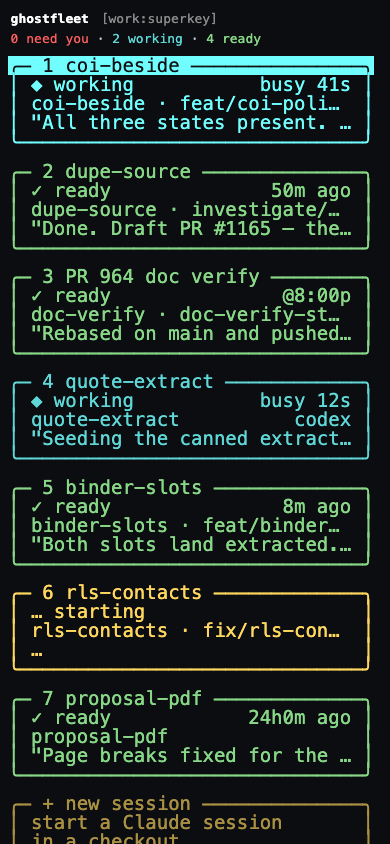
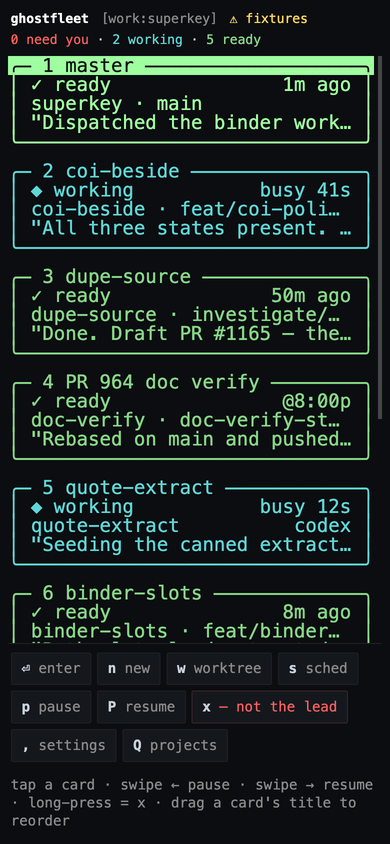
Re-shoot the phone client, because two of its screenshots document an app that no longer exists
web/README.md's stills were taken in #40 and never re-taken, so the two screens that have
changed since are both wrong in the same silent way — they still render, so they still look
right:

  grid.png predates #47. It opens on coi-beside with no `master` card and counts one
  session fewer than the app now shows, which is precisely the bug #47 fixed: the filter
  that hides the lead is only correct at the desk.

  session.png predates #48. It is the screen that commit replaced — a card, TEN footer
  buttons, and a newest-first table of `HH:MM · assistant` rows. The app has bubbles, a
  composer, oldest-first, and one `⋯` sheet. Nothing in that image is still true.

A screenshot cannot fail a test. The only thing that catches this is re-taking them when
the screen changes, so the README now says so and documents how, which is the part that
was missing: nobody re-shot these because it looked like it needed a phone, an enrolled
passkey and a live fleet.

It needs none of those. The client picks fixtures whenever /api/health does not answer as
a fleet (api.js:128), so a static server over web/ is the whole app, deterministic, with
no real fleet data in frame — which also means these images can be published from a public
repo without leaking a project list.

Adds phone-demo.gif walking projects -> grid -> the chat -> its composer -> the actions
sheet -> the live pane with a permission prompt waiting on an answer, plus pane.png and
[…]

Changed region(s): [[0.0, 0.0, 0.9846, 1.0]]

diff --git a/web/README.md b/web/README.md
@@ -3,6 +3,12 @@
 The fleet grid, as a Progressive Web App. Design: [`docs/mobile.md`](../docs/mobile.md)
 — §4 is the JSON, §6 is the client and layout, §7 is parity and the confirmations.
 
+<p align="center">
+  <img src="../docs/mobile/phone-demo.gif" width="320"
+       alt="Projects, then one project's grid, then a session: the chat, its composer, the
+            actions sheet, and the live pane with a permission prompt waiting on an answer.">
+</p>
+
 It is **not a second design**. `bin/fleet-grid.mjs` computes its column count from the
 window width (`const nc = cols()`), so a phone is `nc = 1`, and the card is the same
 five lines `cardLines()` draws — the same box-drawing characters, the same 32 columns,
@@ -24,9 +30,47 @@ that still renders is a card that still looks right.
 |---|---|---|
 | ![grid](../docs/mobile/grid.png) | ![statuses](../docs/mobile/statuses.png) | ![projects](../docs/mobile/projects.png) |
 
-| a session | the TUI's own confirmation, and its force step |
-|---|---|
-| ![session](../docs/mobile/session.png) | ![confirm](../docs/mobile/confirm.png) |
+| a session, which is a chat | its live pane | the `⋯` actions |
+|---|---|---|
+| ![session](../docs/mobile/session.png) | ![pane](../docs/mobile/pane.png) | ![actions](../docs/mobile/actions.png) |
+
+| the TUI's own confirmation, and its force step |
+|---|
+| ![confirm](../docs/mobile/confirm.png) |
+
+Every shot above is the app running on **fixtures**, which is why they can be regenerated
+without a fleet — and why they must be. Two of them went stale silently: `grid.png` was
+taken before the lead's card reached the phone (#47), so it opened on `coi-beside` and
+counted one session too few, and `session.png` was the pre-#48 screen — a card, ten footer
+buttons, and a newest-first table of `HH:MM · assistant` rows, none of which the app has
+any more. A screenshot cannot fail a test, so the only thing that catches this is
+re-taking them when the screen changes.
+
+### Re-taking them
+
+The client picks fixtures whenever `/api/health` does not answer as a fleet
+(`api.js:128`), so a plain static server is a complete, deterministic app with no
+enrolment and no real fleet data in the frame:
+
+```bash
+(cd web && python3 -m http.server 8899 --bind 127.0.0.1)
+```
+
+Open it at a 390x844 viewport with `devicePixelRatio` 2, take the fixture bypass on the
+lock screen, and shoot each screen. Note that the cards are not `<button>`s and they do
+not listen for `click`: the tap handler is `pointerup` on `.card` (`app.js:1083`), guarded
+by a movement slop and a long-press timer, so a driver that only dispatches `click` selects
+a card and never opens it. Downscale the 2x captures to the 390-wide convention, and build
+the GIF from the stills — the screens are static, so 5fps is enough and `stats_mode=diff`
+is what keeps a dark UI from banding:
+
+```bash
+ffmpeg -f concat -safe 0 -i list.txt -filter_complex \
+  "fps=5,scale=390:-1:flags=lanczos,split[a][b];\
+   [a]palettegen=max_colors=128:stats_mode=diff[p];\
+   [b][p]paletteuse=dither=bayer:bayer_scale=3" \
+  -loop 0 docs/mobile/phone-demo.gif -y
+```
 
 ## Running it
 
